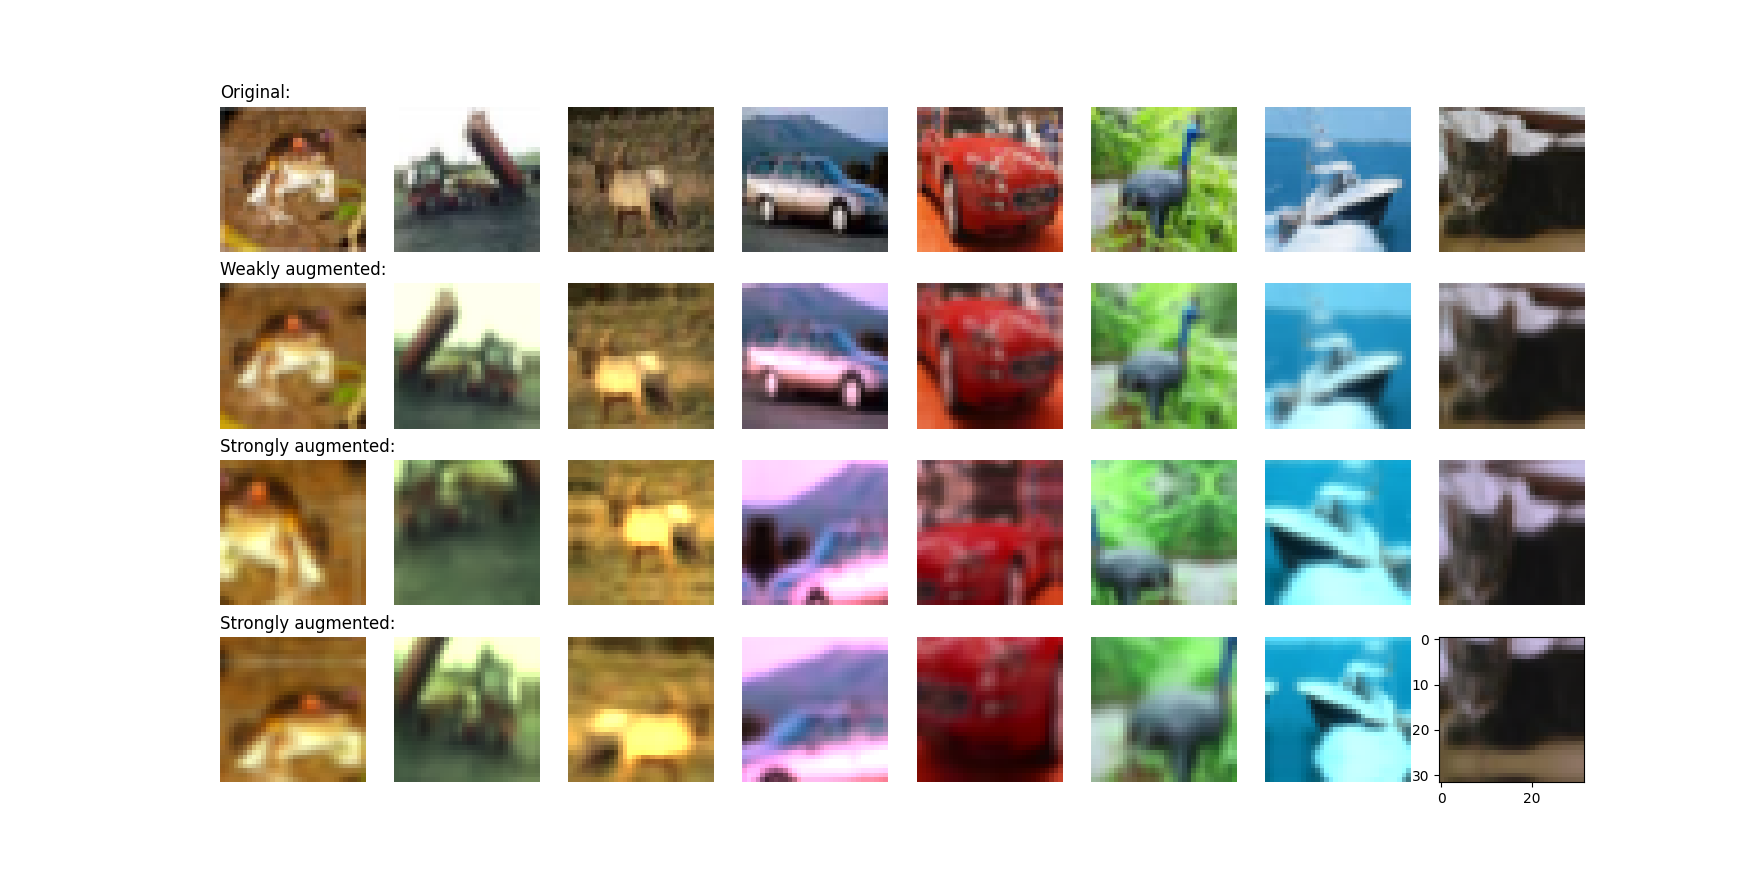
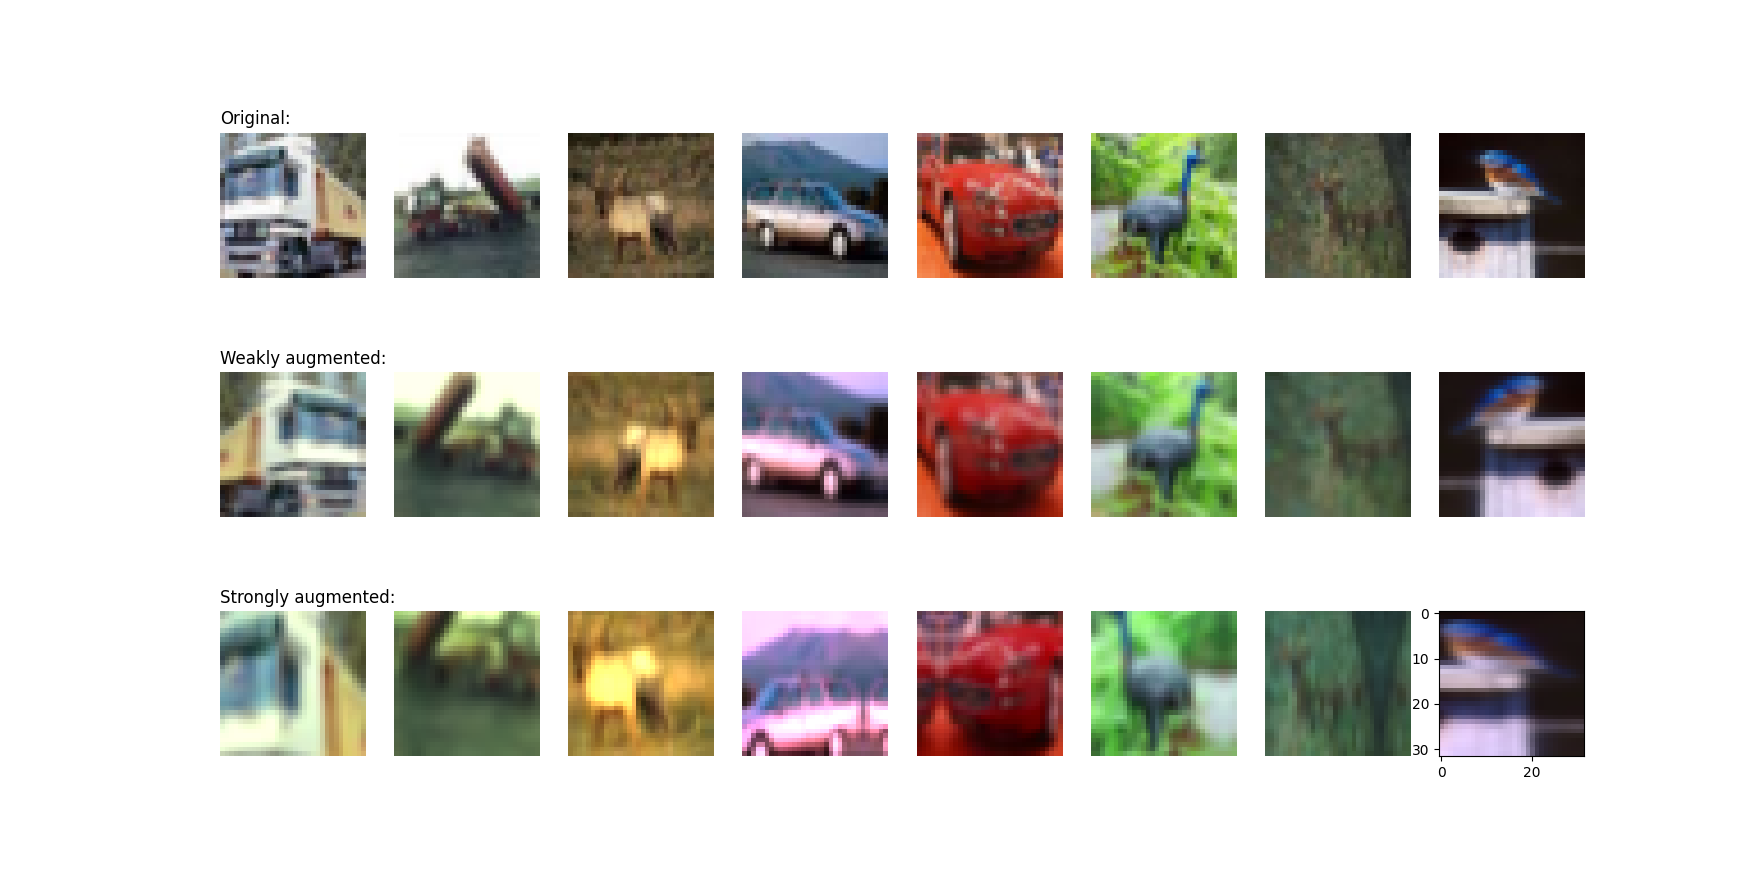
working baseline

diff --git a/model/semi_supervised_model.py b/model/semi_supervised_model.py
@@ -134,18 +134,16 @@ def visualize_augmentations(num_images):
         images,
         get_augmenter(**classification_augmentation)(images),
         get_augmenter(**contrastive_augmentation)(images),
-        get_augmenter(**contrastive_augmentation)(images),
     )
     row_titles = [
         "Original:",
         "Weakly augmented:",
         "Strongly augmented:",
-        "Strongly augmented:",
     ]
     plt.figure(figsize=(num_images * 2.2, 4 * 2.2), dpi=100)
     for column, image_row in enumerate(augmented_images):
         for row, image in enumerate(image_row):
-            plt.subplot(4, num_images, row * num_images + column + 1)
+            plt.subplot(3, num_images, row * num_images + column + 1)
             plt.imshow(image)
             plt.savefig('figure.png')
             if column == 0:
@@ -154,9 +152,9 @@ def visualize_augmentations(num_images):
     plt.tight_layout()
 
 
-visualize_augmentations(num_images=8)
+# visualize_augmentations(num_images=8)
 
-'''
+
 # Define the encoder architecture
 def get_encoder():
     return keras.Sequential(
@@ -194,4 +192,4 @@ print(
     "Maximal validation accuracy: {:.2f}%".format(
         max(baseline_history.history["val_acc"]) * 100
     )
-)'''
+)
